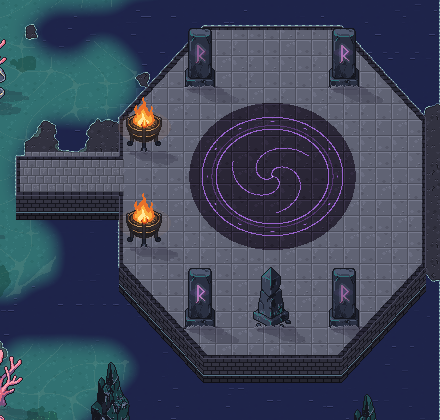
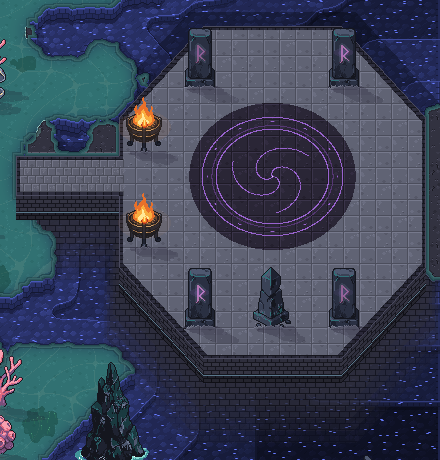
Karte 11: Plattform mit Fundament bis in die tiefste Stufe (Absaetze unter Wasser, Meer laeuft darunter durch)
Claude-Session: https://claude.ai/code/session_01SaoYHKhnro4LFcPJqjaPsq

diff --git a/tools/karte11_bauen.py b/tools/karte11_bauen.py
@@ -213,6 +213,36 @@ def kaimauer(a, m, tiefe=24):
     return front
 
 
+def fundament(a, m, wasser):
+    """Fundament der Plattform/Bruecke unter Wasser: das Mauerwerk setzt sich unter der Kaimauer in 5 Absaetzen bis
+    zur tiefsten Stufe fort - jeder Absatz etwas breiter und tiefer, vom Wasser staerker ueberdeckt (zuerst die
+    tiefsten). Rund um das Fundament ist das Wasser am tiefsten und dunkelsten."""
+    Hh, W = m.shape
+    yy, xx = np.mgrid[0:Hh, 0:W]
+    def dil(mm, r):
+        return np.array(Image.fromarray((mm * 255).astype(np.uint8)).filter(ImageFilter.MaxFilter(2 * r + 1))) > 0
+    ring = dil(m, 14) & wasser & ~m
+    a[ring] = (a[ring] * 0.72).astype(np.uint8)
+    stein = np.array([46, 46, 60], np.float32)
+    fuge = np.array([22, 22, 30], np.float32)
+    for k in range(4, -1, -1):                                   # tiefster Absatz zuerst
+        breite = 3 * (k + 1)
+        unten = 24 + 9 * (k + 1)
+        tier = np.roll(dil(m, breite), unten, 0) & wasser & ~m
+        tier[:unten] = False
+        if not tier.any():
+            continue
+        z = ((yy % 6 == 5) | ((xx + 4 * ((yy // 6) % 2)) % 10 == 9))
+        farbe = np.where(z[..., None], fuge, stein)
+        deck = 0.62 - 0.11 * k                                   # tiefer = staerker vom Wasser ueberdeckt
+        a[tier] = np.clip(a[tier] * (1 - deck) + farbe[tier] * deck, 0, 255).astype(np.uint8)
+        kante = tier & ~np.roll(tier, 1, 0)                      # Oberkante des Absatzes: heller Grat
+        a[kante] = np.clip(a[kante] * 0.45 + np.array([88, 100, 140]) * 0.55 * (1 - 0.12 * k), 0, 255).astype(np.uint8)
+        for d_, fa in ((1, 0.78), (2, 0.88)):                      # Schatten unter der Kante des Absatzes darueber
+            sch = np.roll(kante, d_, 0) & tier
+            a[sch] = (a[sch] * fa).astype(np.uint8)
+
+
 def bannkreis(a, cx, cy, rx, ry, frame):
     """Bannkreis auf der Plattform: doppelter Ring mit Runenzeichen und eine dreiarmige Spirale in der Mitte
     (Spiral Mountain), violett leuchtend; das Leuchten pulsiert, die Spirale dreht sich langsam."""
@@ -296,7 +326,7 @@ def bauen(frame=None, speichern=True):
     meer_zeichnen(a, wasser, flach, seetang, frame)
     # Tiefsee im Stil des Flusses von Karte 01: Wassertextur, vertiefte Stufen mit Kanten (5 Stufen ueber die ganze
     # Meeresbreite bis zum Kartenrand), danach fuer das Meer der Finsternis abgedunkelt (Struktur bleibt erhalten)
-    tief = wasser & ~flach
+    tief = (wasser & ~flach) | plattform | bruecke_m          # das Meer laeuft unter Plattform und Bruecke durch
     k4.wasser_zeichnen(a, tief, frame, np.zeros_like(tief))
     import wasser_vertieft as _wv
     a = np.array(_wv.vertiefen(Image.fromarray(a), np.ones_like(tief), frame, maske=tief,
@@ -314,9 +344,12 @@ def bauen(frame=None, speichern=True):
                                            rand=('#16141c', '#201c28', '#2a2434', '#342c40'),
                                            stufen=[(14, 0.8, 5), (28, 0.65, 4)]).convert('RGB'))
     tuempel_zeichnen(a, tm, frame)
-    # --- Plattform und Bruecke: Steinplatten, Ziegelrand, Kaimauer
+    # --- Plattform und Bruecke: Steinplatten, Ziegelrand, Kaimauer, Fundament bis in die tiefste Stufe
+    a[plattform] = textur('f', cols, rows)[plattform]
+    a[kreis_m] = textur('z', cols, rows)[kreis_m]
     bt = textur('q', cols, rows)
     a[bruecke_m] = bt[bruecke_m]
+    fundament(a, plattform | bruecke_m, tief)
     front = kaimauer(a, plattform | bruecke_m)
     bannkreis(a, 69.5 * T, 38.5 * T, 4.4 * T, 3.7 * T, frame)
     # --- Treppen (Suedseite der Plateaus) und Kanten
